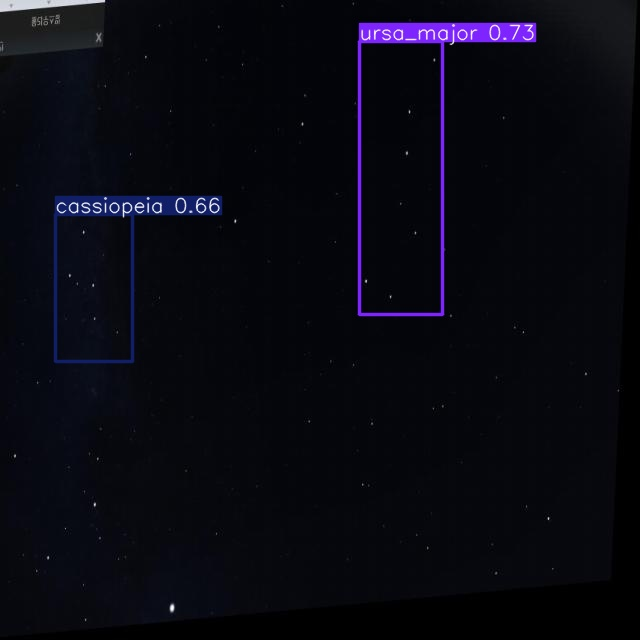
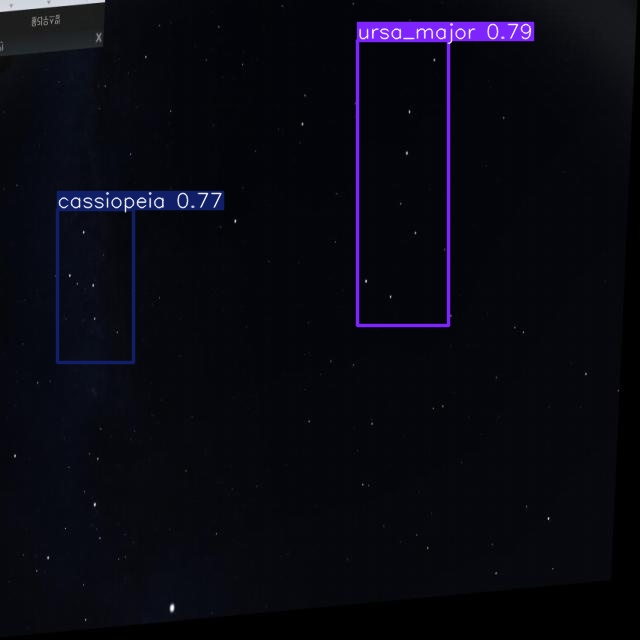
Added more stars. Scroll needed to view full picture.

Changed region(s): [[0.5312, 0.0312, 0.8438, 0.5312], [0.0625, 0.2812, 0.3438, 0.5625]]

diff --git a/flask-frontend/templates/base.html b/flask-frontend/templates/base.html
@@ -47,6 +47,8 @@
         <div class="star" style="top: 5%; left: 90%; animation-duration: 4.5s;"></div>
         <div class="star" style="top: 50%; left: 25%; animation-duration: 4.5s;"></div>
         <div class="star" style="top: 63%; left: 35%; animation-duration: 2.5s;"></div>
+        <div class="star" style="top: 73%; left: 15%; animation-duration: 3.5s;"></div>
+        <div class="star" style="top: 43%; left: 95%; animation-duration: 2.5s;"></div>
       </div>
       <div class="welcome-content">
         <h1>Welcome to the Constellation Identifier WebSite!</h1>
